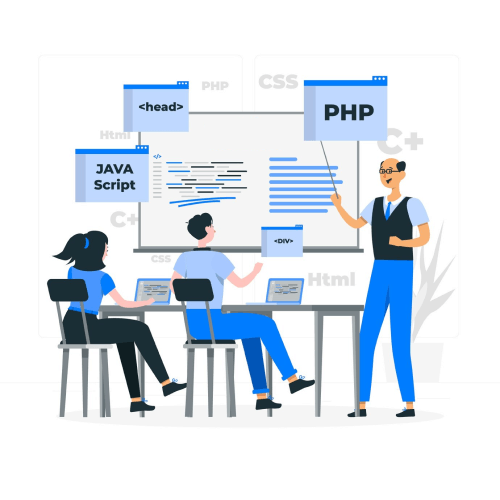
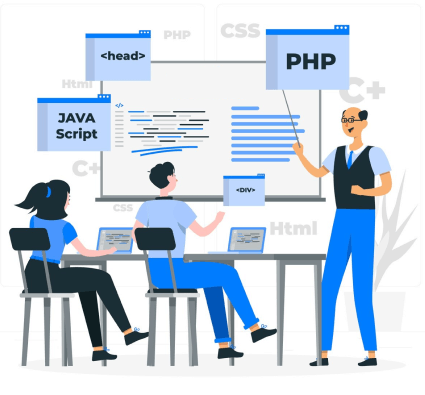
fix: remove whitespace in image

diff --git a/app/constants/services/staff-augmentation/index.js b/app/constants/services/staff-augmentation/index.js
@@ -4667,9 +4667,9 @@ export const BACKEND_DEVELOPER = {
         id: 1,
         tableData: [
           { id: 1, text: 'Failure Rate', bgColor: '#ffffff' },
-          { id: 2, text: 'X', bgColor: '#FFDCDC' },
+          { id: 2, text: 'Very Low', bgColor: '#ffffff' },
           { id: 3, text: 'Low', bgColor: '#ffffff' },
-          { id: 4, text: 'Very Low', bgColor: '#ffffff' },
+          { id: 4, text: 'Very High', bgColor: '#ffffff' },
         ],
       },
 
@@ -4719,7 +4719,7 @@ export const BACKEND_DEVELOPER = {
           { id: 1, text: 'Quality Guarantee', bgColor: '#ffffff' },
           { id: 2, text: '✓', bgColor: '#24B768' },
           { id: 3, text: 'X', bgColor: '#FFDCDC' },
-          { id: 4, text: 'Unsure', bgColor: '#ffffff' },
+          { id: 4, text: 'X', bgColor: '#FFDCDC' },
         ],
       },
     ],
@@ -4730,7 +4730,7 @@ export const BACKEND_DEVELOPER = {
         title: 'Failure Rate',
         tableHeading: ['Primathon', 'Other Company', 'Freelancers'],
         tableData: [
-          { id: 1, text: 'X', bgColor: '#FFDCDC' },
+          { id: 1, text: 'Very Low', bgColor: '#ffffff' },
           { id: 2, text: 'Low', bgColor: '#ffffff' },
           { id: 3, text: 'Very High', bgColor: '#ffffff' },
         ],
@@ -4783,7 +4783,7 @@ export const BACKEND_DEVELOPER = {
         tableData: [
           { id: 1, text: '✓', bgColor: '#24B768' },
           { id: 2, text: 'X', bgColor: '#FFDCDC' },
-          { id: 3, text: 'Unsure', bgColor: '#ffffff' },
+          { id: 3, text: 'X', bgColor: '#FFDCDC' },
         ],
       },
     ],
